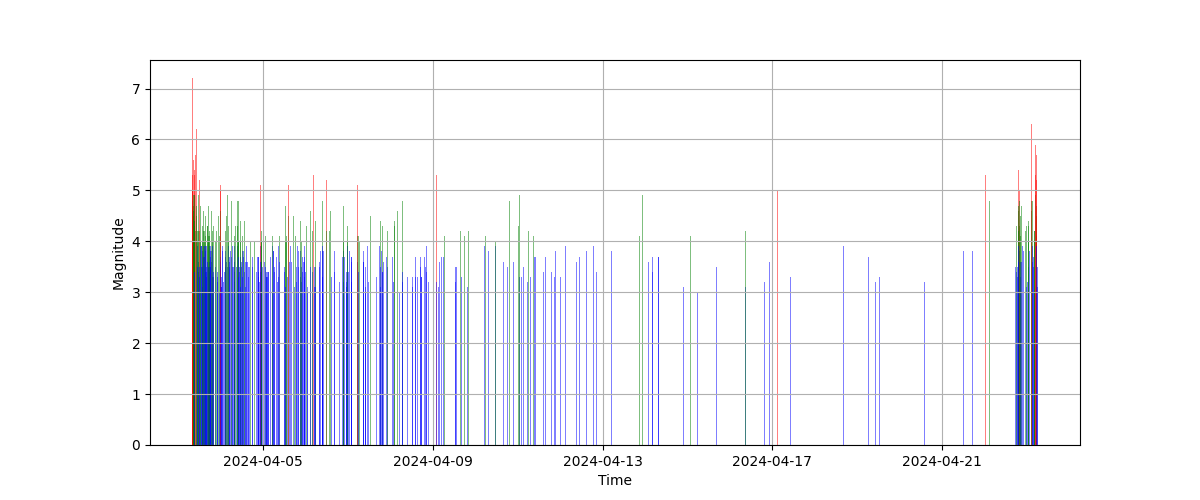
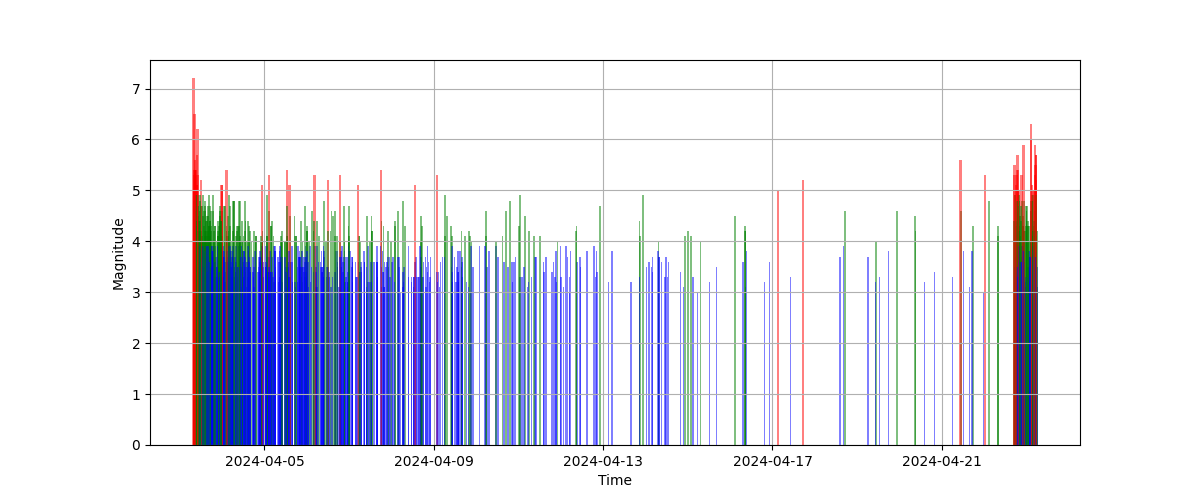
frequency bar width now depends on magnitude

diff --git a/graph.py b/graph.py
@@ -150,7 +150,7 @@ ax = fig.add_subplot()
 ax.bar(
     data.times, 
     data.magnitudes,
-    width=0.01,
+    width=0.01 * data.magnitudes,
     alpha=0.5,
     color=np.where(data.magnitudes >= 5, 'r', np.where(data.magnitudes < 4, 'b', 'g')))
 ax.set_xlabel("Time")
